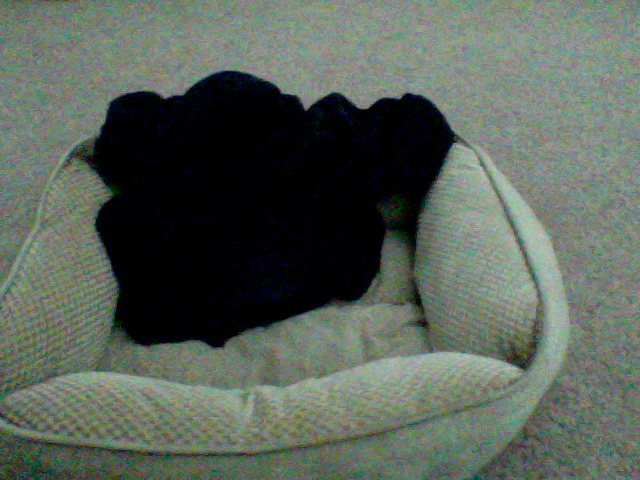
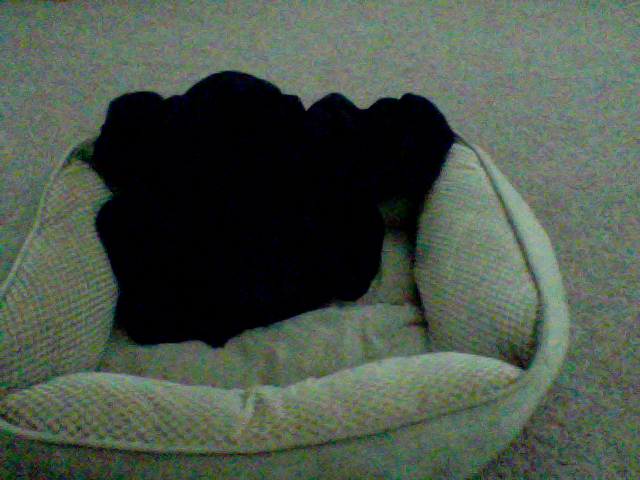
update at Month05Day08Time10:07

diff --git a/index.html b/index.html
@@ -40,7 +40,7 @@
       <div class="row">
         <div class="col-md-4">
 	<p>This picture was updated at Month05Day08Time10:07</p>
-		<img src="10_pic.png" />
+		<img src="2_pic.png" />
         </div>
       </div>
 
